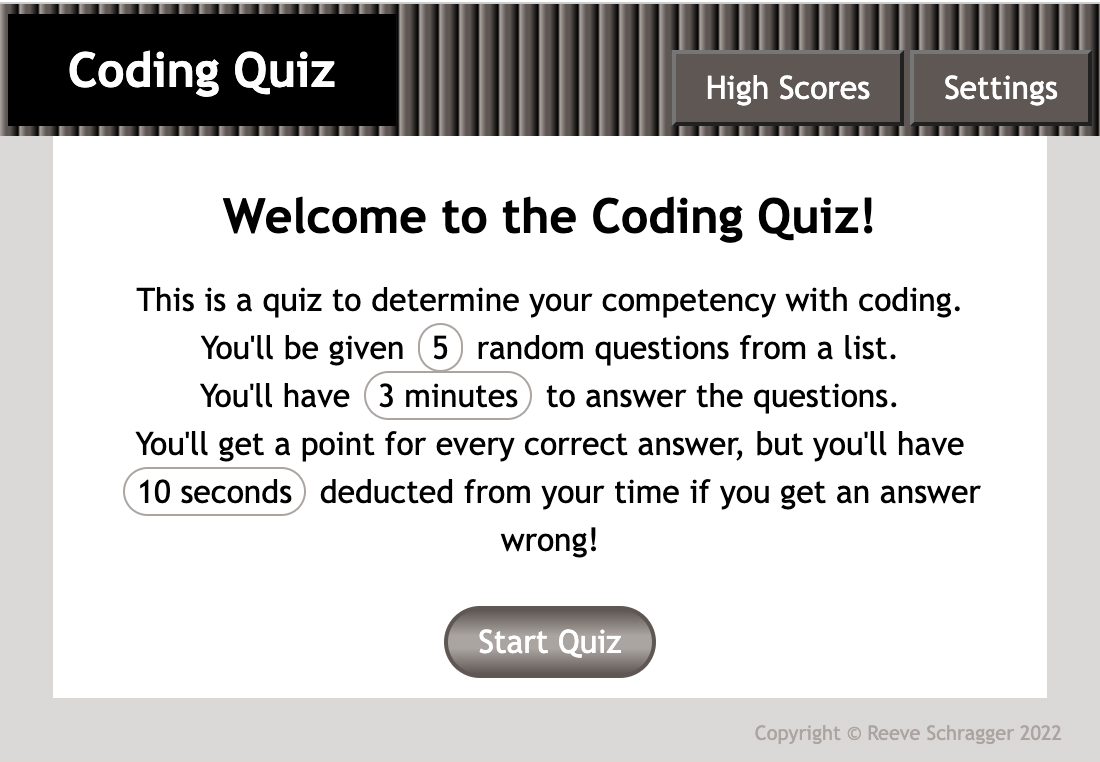
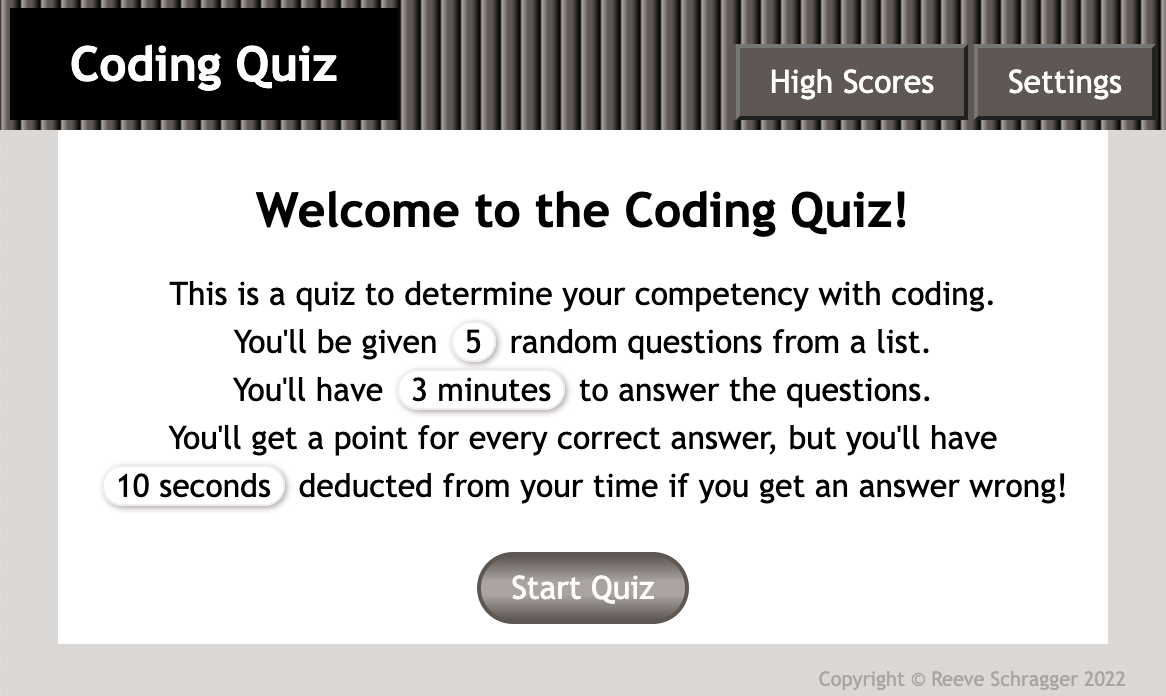
220620 01:20 Final finessing

Changed region(s): [[0.0927, 0.2414, 0.9273, 0.7543], [0.0, 0.0, 1.0, 0.2112], [0.0309, 0.7845, 0.9582, 0.9957]]

diff --git a/assets/css/style.css b/assets/css/style.css
@@ -156,10 +156,11 @@ h4, #timer{
 }
 
 .roundel {
-  padding: 2px 6px;
+  padding: 0px 6px;
   margin: 2px;
   border-radius: 1rem;
-  border: 1px solid var(--dark);
+  border: 1px solid var(--bggrey);
+  box-shadow: 1px 1px 3px var(--dark);
 
 }
 
